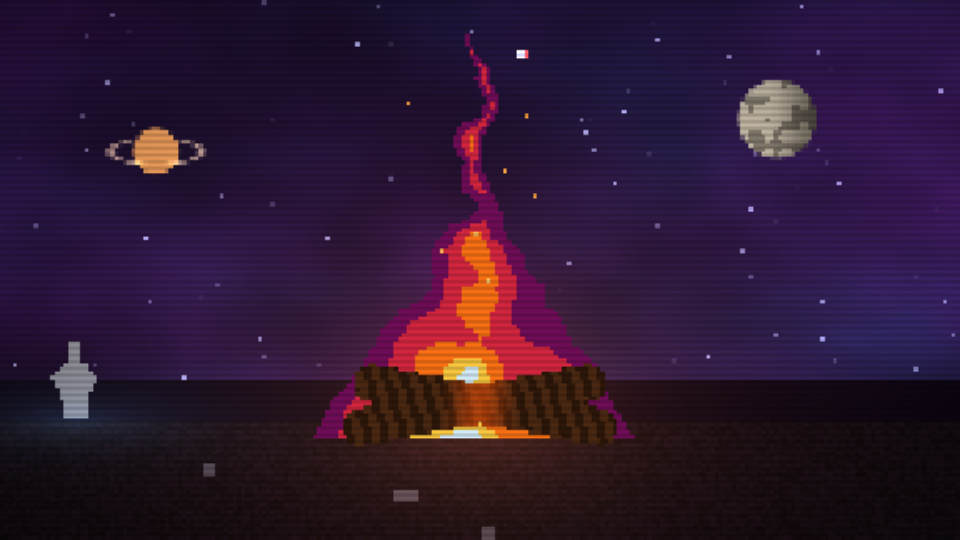
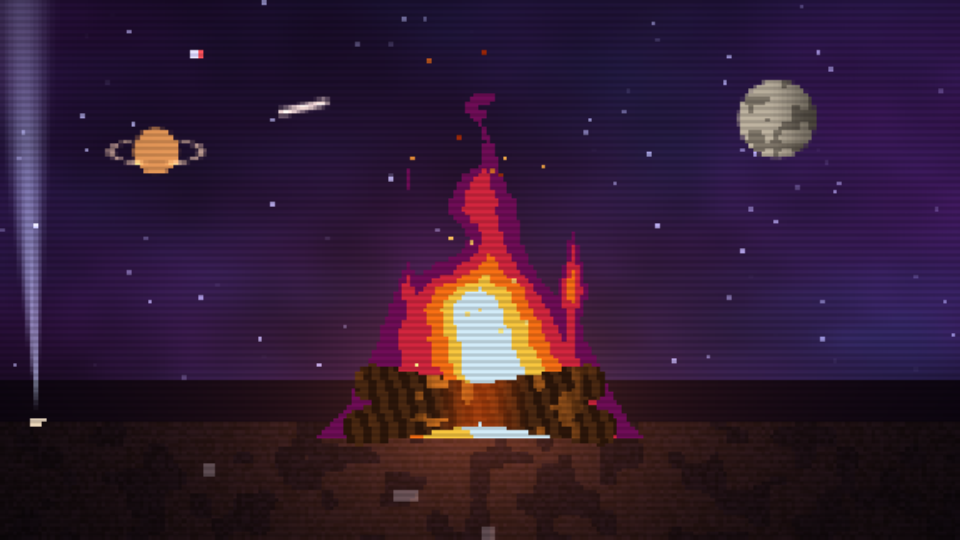
Error: zufälliger Einstieg; Slots: Unschärfe nur in Bewegung, gedeckte Farben, Thema pro Einschalten; Lagerfeuer lebendiger; Nav kleiner gerendert
Error: erster Durchlauf beginnt mitten in einer zufälligen Code-Phase oder
direkt im Ereignis, Variante zufällig. Slots: Unschärfe je Walze folgt der
Drehzahl (stehende Walzen sind scharf), Trommeln in tiefen Themenfarben
statt weißem Papier, kein automatischer Themenwechsel mehr, stattdessen
Zähler in logs/slots_theme.txt: jedes Einschalten das nächste Thema.
Lagerfeuer: Rauch, Hitzeflimmern, seitliche Flammenzungen und Fetzen,
glühende Risse, mehr Funken, Funkenregen, wandernde Lichtflecken.
Navigationscomputer render_scale 0.55 (Pi: 25 bis 29 fps bei 0.75).

Claude-Session: https://claude.ai/code/session_01HNz97UqFE2gGTPea68eVSn

diff --git a/visualizers/scenes/slots.py b/visualizers/scenes/slots.py
@@ -16,7 +16,25 @@ import time
 import numpy as np
 import pygame
 
+from launcher import config as lcfg
 from visualizers.scenes import slots_art as art
+
+THEME_FILE = lcfg.ROOT / "logs" / "slots_theme.txt"   # Zähler: jedes Einschalten das nächste Thema
+
+
+def next_theme_index() -> int:
+    """Liest den Zähler, gibt das Thema für diesen Start zurück und schreibt den Zähler für den nächsten."""
+    n = 0
+    try:
+        n = int(THEME_FILE.read_text().strip() or "0")
+    except (OSError, ValueError):
+        n = 0
+    try:
+        THEME_FILE.parent.mkdir(parents=True, exist_ok=True)
+        THEME_FILE.write_text(str((n + 1) % len(art.THEMES)))
+    except OSError:
+        pass
+    return n % len(art.THEMES)
 
 STRIP_LEN = 32          # Symbole pro Walze
 N_REELS = 3
@@ -127,7 +145,7 @@ class Controller:
     def __init__(self, scene_cfg: dict, demo: bool = False):
         self.rng = random.Random()
         self.demo = demo
-        self.theme = self.rng.randrange(len(art.THEMES))
+        self.theme = next_theme_index()
         self.strips = [build_strip(self.theme, r) for r in range(N_REELS)]
         self.reels = [Reel() for _ in range(N_REELS)]
         for r in range(N_REELS):
@@ -147,7 +165,7 @@ class Controller:
         self.spins = 0
         self.spins_until_theme = self.rng.randint(4, 8)
         self.next_theme = self.theme
-        self.dream = 0.0            # 0 scharf, 1 verschwommen (steigt beim Drehen langsam an)
+        self.blur = [0.0, 0.0, 0.0]   # je Walze: 0 scharf, 1 verschwommen; folgt der Drehzahl
         self.respin_pending = False
         self.respin_reel = -1
         self.planned_win = WIN_NONE
@@ -308,21 +326,15 @@ class Controller:
         self.last = now
         for reel in self.reels:
             reel.update(now, dt)
-        # Traumfaktor: steigt beim Drehen über etwa zwei Sekunden, fällt nach dem Stillstand langsam ab
-        spinning = any(r.spinning for r in self.reels)
-        rate = dt / 2.0 if spinning else -dt / 2.6
-        self.dream = min(1.0, max(0.0, self.dream + rate))
+        # Unschärfe je Walze folgt ihrer Drehzahl: beim Anlaufen weich hinein, beim Stillstand schnell scharf
+        for i, reel in enumerate(self.reels):
+            target = min(1.0, reel.speed / 4.0)
+            tau = 1.2 if target > self.blur[i] else 0.35
+            self.blur[i] += (target - self.blur[i]) * min(1.0, dt / tau)
         st_t = now - self.state_t0
         if self.state == ST_IDLE:
             if st_t >= self.idle_len:
-                if self.spins >= self.spins_until_theme:
-                    self.spins = 0
-                    self.spins_until_theme = self.rng.randint(4, 8)
-                    choices = [i for i in range(len(art.THEMES)) if i != self.theme]
-                    self.next_theme = self.rng.choice(choices)
-                    self._set_state(ST_THEME)
-                else:
-                    self._spin()
+                self._spin()          # Thema bleibt für diese Sitzung, Pfeiltasten wechseln von Hand
         elif self.state == ST_SPIN:
             if not any(r.spinning for r in self.reels):
                 self._finish()
@@ -354,7 +366,7 @@ class Controller:
 
     def uniform_names(self):
         return ("uSpriteTex", "uAtlasSize", "uTheme", "uColA", "uColB", "uReel", "uSpeed", "uState", "uStateT",
-                "uWin", "uWinMask", "uDream", "uFade", "uStripRow")
+                "uWin", "uWinMask", "uBlur", "uFade", "uStripRow")
 
     def uniforms(self, t: float, f) -> dict:
         self._advance()
@@ -375,7 +387,7 @@ class Controller:
             "uStateT": st_t,
             "uWin": float(self.win),
             "uWinMask": float(self.win_mask),
-            "uDream": self.dream,
+            "uBlur": tuple(self.blur),
             "uFade": fade,
             "uStripRow": float(len(art.THEMES) * SYM),
         }
@@ -384,7 +396,7 @@ class Controller:
         th = art.THEMES[self.theme]
         now = time.monotonic()
         st_t = now - self.state_t0
-        dim = 1.0 - 0.5 * self.dream
+        dim = 1.0 - 0.4 * max(self.blur)
         out = [
             (th["title"], 0.026, 0.5, 0.962, GOLD, 0.85 * dim),
             (th["subtitle"], 0.016, 0.5, 0.93, (255, 240, 200), 0.6 * dim),

diff --git a/visualizers/scenes/error.py b/visualizers/scenes/error.py
@@ -66,7 +66,7 @@ class Controller:
     def _new_cycle(self) -> None:
         self.cycle += 1
         self.seed = self.rng.uniform(1.0, 900.0)
-        self.code_var = 0 if self.cycle == 1 else self._pick(6, self.code_var)
+        self.code_var = self._pick(6, self.code_var)
         self.err_var = self._pick(6, self.err_var)
         self.glitch = self.rng.uniform(0.6, 1.4)
         self.code_len = self.rng.uniform(9.0, 18.0)
@@ -102,6 +102,12 @@ class Controller:
             plan = crash
             self.last_event = "crash"
         self.queue = [(CODE, self.code_len, {})] + plan
+        if self.cycle == 1:
+            # Zufälliger Einstieg: meist mitten in der Code-Phase, manchmal direkt im Ereignis
+            if self.rng.random() < 0.25:
+                self.queue.pop(0)
+            else:
+                self.queue[0] = (CODE, self.code_len * self.rng.uniform(0.2, 0.8), {})
         self._next()
 
     def _next(self) -> None:

diff --git a/README.md b/README.md
@@ -268,7 +268,9 @@ Shader laufen und steht im Log.
   das ganze Auge, Mitten drehen die Iris, Höhen verschieben Zeilen, der Beat sendet einen Ring
   nach außen. Pixelraster und Scanlines.
 
-- `campfire` (F7): Pixel-Art-Lagerfeuer auf 90 Zeilen Raster. Zündet nach dem Start in etwa fünf
+- `campfire` (F7): Pixel-Art-Lagerfeuer auf 128 Zeilen Raster. Flamme mit seitlichen Zungen, die
+  abreißen, Fetzen über der Spitze, Rauch, der im Wind abdriftet, Hitzeflimmern über dem Feuer,
+  glühende Risse in den Scheiten, 22 Funken in Wirbeln und alle paar Sekunden ein Funkenregen. Zündet nach dem Start in etwa fünf
   Sekunden an (Funke, dann wachsende Flamme), zwei gekreuzte Scheite mit Glut, aufsteigende Funken,
   flackernder Lichtschein auf dem Boden, Sternenhimmel. Braucht kein Mikrofon; mit Musik werden
   Flamme und Funken etwas lebhafter. Pixelraster 128 Zeilen, `render_scale 0.6`.
@@ -506,10 +508,12 @@ Flugdauer aus `config/visualizer.toml`. Logik in `visualizers/scenes/navcomputer
 
 **Space-Slotmaschine (Taste 5, `slots`):** Nahaufnahme von drei Walzen, die das ganze Bild füllen:
 gedruckte Symbole auf gewölbten Trommeln mit Papierkorn, Licht von oben, dunkle Trennstege, Glasreflex.
-Die Maschine steht still; beim Drehen verschwimmt das Bild langsam wie im Traum (weiche Unschärfe,
-Bewegungsunschärfe, wanderndes Doppelbild, hellere Farben) und wird nach dem Stillstand wieder
-scharf. Die Walzen laufen gemächlich, das Einrasten hat einen kleinen Rückprall. Sechs übergeordnete Themen, zufällig gewählt und alle vier bis acht Runden gewechselt
-(Weißblitz, Pfeiltasten wechseln sofort): KANTINE, IMPERIUM, SCHROTTPLATZ, ORBIT-GOLF,
+Die Maschine steht still; nur eine Walze, die sich dreht, verschwimmt (weiche Unschärfe,
+Bewegungsunschärfe, wanderndes Doppelbild), und sobald sie steht, ist sie wieder scharf. Die
+Trommeln tragen tiefe, ruhige Farben des Themas, die langsam ineinanderfließen, jedes Symbol auf
+einem etwas helleren Etikett. Die Walzen laufen gemächlich, das Einrasten hat einen kleinen
+Rückprall. Sechs übergeordnete Themen; jedes Einschalten des Modus bringt das nächste (Zähler in
+`logs/slots_theme.txt`), innerhalb einer Sitzung bleibt es, Pfeiltasten wechseln von Hand: KANTINE, IMPERIUM, SCHROTTPLATZ, ORBIT-GOLF,
 SCHMUGGLERKASINO, RAUMFAHRT-RETRO. Jedes Thema bringt sieben eigene 16×16-Pixel-Symbole (das
 letzte ist das Jackpot-Symbol: Kuss, Totenkopf, Schädel, Pokal, Geldsack, Astronaut), zwei
 Farben für Rahmen und Nebel, einen Titel und Sprüche für Verlust, Beinahe-Treffer, kleinen Gewinn,
@@ -527,7 +531,8 @@ den der Controller (`visualizers/scenes/slots.py`) als Textur an den Shader
 hoch. Neue Themen: Eintrag in `THEMES` mit sieben ASCII-Sprites, Farben und Sprüchen.
 
 **Systemfehler-Modus (Taste 8, `error`):** Grüner Code, der zusammenbricht. Den Ablauf steuert
-`visualizers/scenes/error.py`, jeder Durchlauf fällt anders aus: 9 bis 18 Sekunden Code in einer
+`visualizers/scenes/error.py`, jeder Durchlauf fällt anders aus, und auch der Einstieg ist zufällig
+(meist mitten in einer Code-Phase, manchmal direkt in einem Ereignis): 9 bis 18 Sekunden Code in einer
 von sechs Varianten (Zeichenregen, Hexdump, Boot-Protokoll mit `[ OK ]`/`[WARN]`/`[FAIL]`, Bitraster,
 Quelltext mit roten FEHLERCODE-Zeilen, Spektrum als Zeichensäulen; nie zweimal dieselbe
 hintereinander), dann würfelt der Controller, was passiert:
